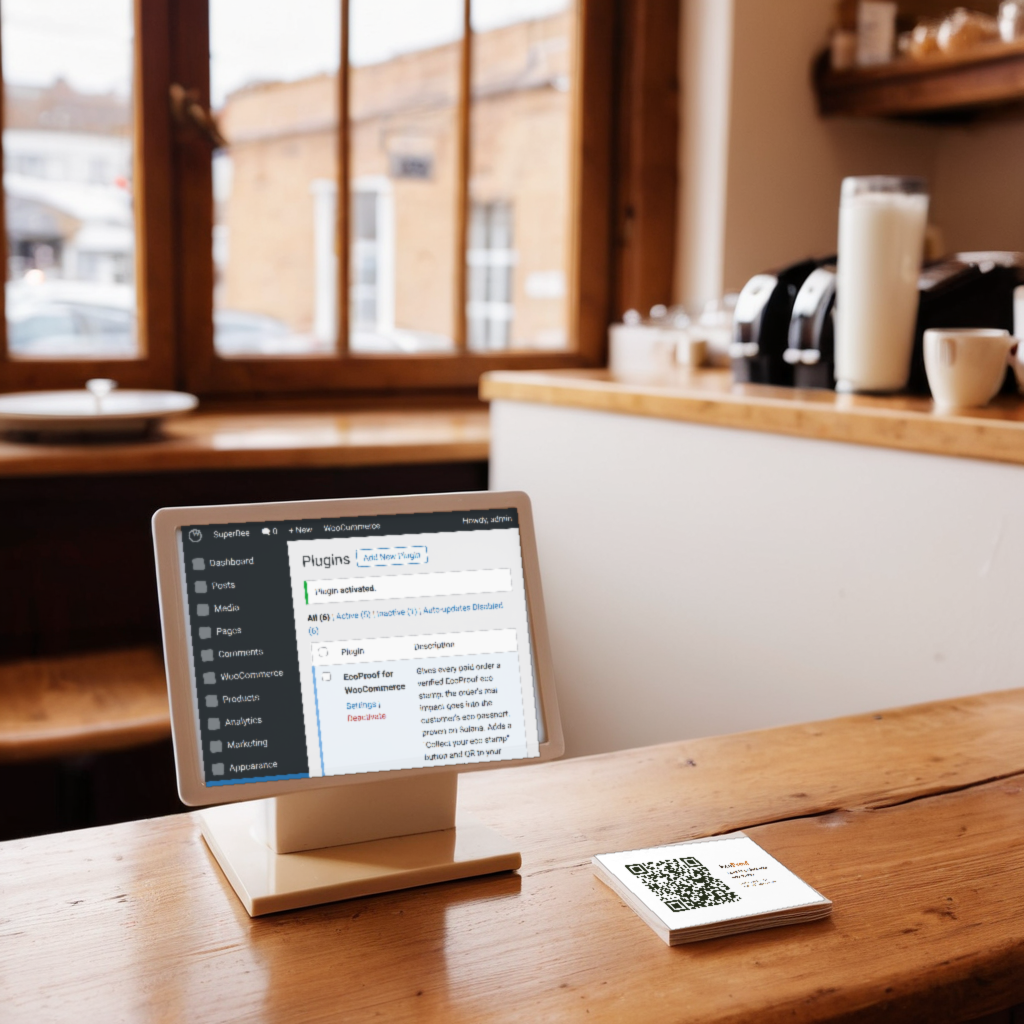
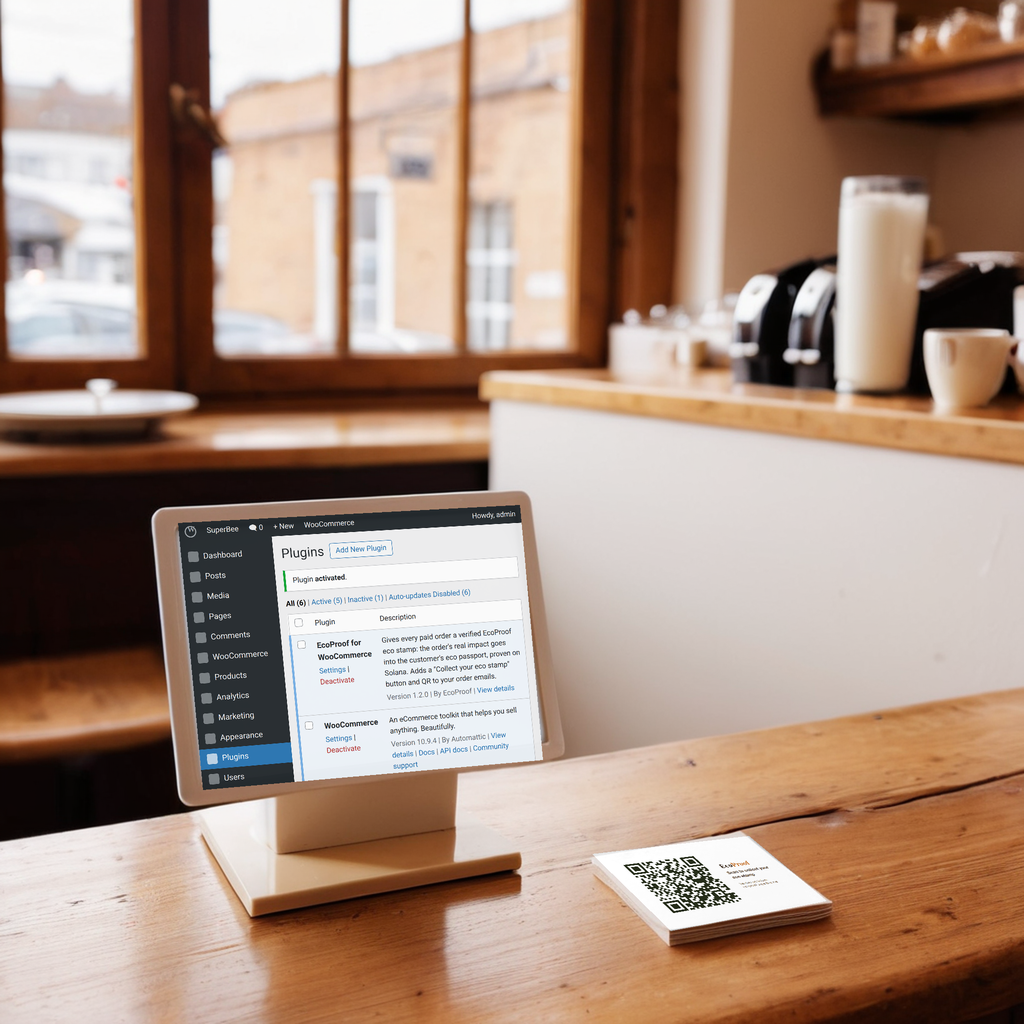
Connect step image: page fills the POS screen, composited at 2x for a crisp overlay

Changed region(s): [[0.1562, 0.4688, 0.5312, 0.7812], [0.5938, 0.8125, 0.75, 0.9062]]

diff --git a/art/steps/connect/wp_plugins_fit.html b/art/steps/connect/wp_plugins_fit.html
@@ -1,0 +1,37 @@
+<!doctype html><html><head><meta charset="utf-8"><title>Plugins</title>
+<style>body{zoom:1.3}
+*{box-sizing:border-box}body{margin:0;font:13px/1.5 -apple-system,BlinkMacSystemFont,"Segoe UI",Roboto,Oxygen-Sans,Ubuntu,Cantarell,"Helvetica Neue",sans-serif;color:#1d2327;background:#f0f0f1}
+#bar{height:32px;background:#1d2327;color:#f0f0f1;display:flex;align-items:center;padding:0 10px;gap:18px;font-size:13px}
+#bar .wp{width:20px;height:20px;border-radius:50%;border:2px solid #9ca2a7;display:inline-block;position:relative}
+#bar .wp:after{content:"W";position:absolute;left:3px;top:-3px;font:bold 13px Georgia,serif;color:#9ca2a7}
+#bar .r{margin-left:auto}
+#side{position:absolute;top:32px;left:0;bottom:0;width:160px;background:#1d2327;color:#f0f0f1;padding-top:10px}
+#side div{padding:7px 12px;font-size:14px;display:flex;align-items:center;gap:8px}
+#side div i{width:18px;height:18px;border-radius:3px;background:#9ca2a7;opacity:.7;display:inline-block}
+#side .cur{background:#2271b1;color:#fff}#side .cur i{background:#fff}
+#main{position:absolute;top:32px;left:160px;right:0;bottom:0;padding:8px 14px}
+h1{font-size:23px;font-weight:400;margin:6px 0 12px;display:flex;align-items:center;gap:10px}
+.btn{font-size:13px;border:1px solid #2271b1;color:#2271b1;background:#f6f7f7;border-radius:3px;padding:3px 10px}
+.notice{background:#fff;border:1px solid #c3c4c7;border-left:4px solid #00a32a;padding:8px 12px;margin:8px 0 12px;box-shadow:0 1px 1px rgba(0,0,0,.04)}
+.sub{margin:8px 0;color:#646970}.sub b{color:#000}.sub a{color:#2271b1;text-decoration:none}
+.tbl{background:#fff;border:1px solid #c3c4c7;box-shadow:0 1px 1px rgba(0,0,0,.04);width:100%;border-collapse:collapse}
+.tbl th{text-align:left;padding:8px 10px;border-bottom:1px solid #c3c4c7;font-weight:400}
+.tbl td{padding:10px;vertical-align:top;border-top:1px solid #c3c4c7}
+.tbl tr.on td{background:#f0f6fc}.tbl tr.on td:first-child{border-left:4px solid #72aee6}
+.tbl td.n{width:26%}.tbl td.n b{font-size:14px;display:block;margin-bottom:4px}
+.act a{color:#2271b1;text-decoration:none}.act .d{color:#b32d2e}.meta{color:#646970;margin-top:4px}.meta a{color:#2271b1;text-decoration:none}
+.cb{width:14px;height:14px;border:1px solid #8c8f94;border-radius:3px;display:inline-block;background:#fff}
+</style></head><body>
+<div id="bar"><span class="wp"></span><span>SuperBee</span><span>🗨 0</span><span>+ New</span><span>WooCommerce</span><span class="r">Howdy, admin</span></div>
+<div id="side"><div><i></i>Dashboard</div><div><i></i>Posts</div><div><i></i>Media</div><div><i></i>Pages</div><div><i></i>Comments</div><div><i></i>WooCommerce</div><div><i></i>Products</div><div><i></i>Analytics</div><div><i></i>Marketing</div><div><i></i>Appearance</div><div class="cur"><i></i>Plugins</div><div><i></i>Users</div><div><i></i>Tools</div><div><i></i>Settings</div></div>
+<div id="main">
+<h1>Plugins <span class="btn">Add New Plugin</span></h1>
+<div class="notice">Plugin <b>activated</b>.</div>
+<div class="sub"><b>All (6)</b> | <a>Active (5)</a> | <a>Inactive (1)</a> | <a>Auto-updates Disabled (6)</a></div>
+<table class="tbl"><tr><th style="width:30px"><span class="cb"></span></th><th>Plugin</th><th>Description</th></tr>
+<tr class="on"><td><span class="cb"></span></td><td class="n"><b>EcoProof for WooCommerce</b><div class="act"><a>Settings</a> | <a class="d">Deactivate</a></div></td><td>Gives every paid order a verified EcoProof eco stamp: the order's real impact goes into the customer's eco passport, proven on Solana. Adds a "Collect your eco stamp" button and QR to your order emails.<div class="meta">Version 1.2.0 | By EcoProof | <a>View details</a></div></td></tr>
+<tr class="on"><td><span class="cb"></span></td><td class="n"><b>WooCommerce</b><div class="act"><a>Settings</a> | <a class="d">Deactivate</a></div></td><td>An eCommerce toolkit that helps you sell anything. Beautifully.<div class="meta">Version 10.9.4 | By Automattic | <a>View details</a> | <a>Docs</a> | <a>API docs</a> | <a>Community support</a></div></td></tr>
+<tr class="on"><td><span class="cb"></span></td><td class="n"><b>WooCommerce Stripe Gateway</b><div class="act"><a>Settings</a> | <a class="d">Deactivate</a></div></td><td>Take credit card payments on your store using Stripe.<div class="meta">Version 10.8.4 | By Stripe | <a>View details</a></div></td></tr>
+<tr class="on"><td><span class="cb"></span></td><td class="n"><b>WooCommerce PDF Invoices</b><div class="act"><a>Settings</a> | <a class="d">Deactivate</a></div></td><td>Automatically generate and attach PDF invoices to WooCommerce order emails.<div class="meta">Version 3.2.1 | <a>View details</a></div></td></tr>
+<tr><td><span class="cb"></span></td><td class="n"><b>Customer Reviews for WooCommerce</b><div class="act"><a>Activate</a> | <a class="d">Delete</a></div></td><td>Collect and show customer reviews for your products.<div class="meta">Version 5.114.0 | <a>View details</a></div></td></tr>
+</table></div></body></html>

diff --git a/art/steps/connect/compose.py b/art/steps/connect/compose.py
@@ -1,46 +1,37 @@
 #!/usr/bin/env python3
-"""Composite the real assets onto the rendered counter scene: the WordPress plugins page onto the POS screen, the QR card onto the blank card.
-Corners were read off labelled zoom crops (quad() is kept for a rough automatic guess). Run with the WebUI venv python (numpy)."""
-import numpy as np, sys, pathlib, json
-from PIL import Image, ImageFilter
+"""Composite the real assets onto the rendered counter scene: the WordPress plugins page replica onto the POS screen, the QR card onto the blank
+card. Corners were read off labelled zoom crops. Everything is warped at 2x and downsampled at the end so the overlays stay crisp.
+Run with the WebUI venv python (numpy)."""
+import numpy as np, pathlib, json
+from PIL import Image
 D = pathlib.Path(__file__).parent
+SS = 2
 scene = Image.open(D/"r1_106.png").convert("RGB"); W,H = scene.size
-def quad(box, thresh):
-    """Corners (TL,TR,BR,BL) of the bright region inside box, from the extreme points of its mask."""
-    x0,y0,x1,y1 = box; a = np.asarray(scene.crop(box).convert("L"), np.float32)
-    m = a > thresh; ys,xs = np.nonzero(m); xs = xs + x0; ys = ys + y0
-    s, d = xs+ys, xs-ys
-    return [(int(xs[s.argmin()]),int(ys[s.argmin()])), (int(xs[d.argmax()]),int(ys[d.argmax()])), (int(xs[s.argmax()]),int(ys[s.argmax()])), (int(xs[d.argmin()]),int(ys[d.argmin()]))]
+big = scene.resize((W*SS,H*SS), Image.LANCZOS)
+SCREEN = [(178,523),(520,505),(543,760),(203,790)]   # inner glass, read off _zoom_screen.png
+CARD = [(591,853),(750,835),(828,902),(670,932)]     # top face of the card stack, read off _zoom_card.png
 def coeffs(src, dst):
     A = []
     for (x,y),(u,v) in zip(dst, src): A += [[x,y,1,0,0,0,-u*x,-u*y],[0,0,0,x,y,1,-v*x,-v*y]]
     return np.linalg.solve(np.array(A, np.float64), np.array(src, np.float64).reshape(8)).tolist()
 def place(overlay, corners, inset=0):
-    """Warp overlay into the quad (corners TL,TR,BR,BL, shrunk by inset px) and return an RGBA layer the size of the scene."""
+    """Warp overlay into the quad (TL,TR,BR,BL in scene px, shrunk by inset px) on the 2x canvas; returns an RGBA layer."""
     cx = sum(p[0] for p in corners)/4; cy = sum(p[1] for p in corners)/4
-    c = [(x+(cx-x)*inset/abs(cx-x) if x!=cx else x, y+(cy-y)*inset/abs(cy-y) if y!=cy else y) for x,y in corners]
-    w,h = overlay.size; src = [(0,0),(w,0),(w,h),(0,h)]
-    ov = overlay.convert("RGBA"); ov.putalpha(255)
-    return ov.transform((W,H), Image.PERSPECTIVE, coeffs(src, c), Image.BICUBIC)
-out = scene.copy()
-# screen: 4:3 crop of the plugins page (sidebar, notice and the EcoProof row), shown slightly soft like the photo, with the screen's own glow kept
-sq = [(178,523),(520,505),(543,760),(203,790)]   # inner glass, read off _zoom_screen.png
-wp = Image.open(D/"wp_plugins_small.png").convert("RGB")   # 800x600 tablet-size render at 2x, 4:3 like the screen
-lay = place(wp, sq, inset=3).filter(ImageFilter.GaussianBlur(0.7))
-glow = np.asarray(scene.convert("L"), np.float32)/255
-l = np.asarray(lay, np.float32); a = l[...,3:4]/255
-mix = l[...,:3]*0.9 + 255*0.1*glow[...,None]            # lift blacks a little toward the panel's light
-out = Image.fromarray((np.asarray(out,np.float32)*(1-a) + mix*a).clip(0,255).astype(np.uint8))
-# card: keep the photo's shading by multiplying the artwork with the card's normalised brightness
-cq = [(591,853),(750,835),(828,902),(670,932)]   # top face of the card stack, read off _zoom_card.png
-card = Image.open(D/"card.png").convert("RGB")
-lay = place(card, cq, inset=2).filter(ImageFilter.GaussianBlur(0.5))
-l = np.asarray(lay, np.float32); a = l[...,3:4]/255
-shade = np.asarray(scene.convert("L"), np.float32); shade = (shade/np.percentile(shade[np.asarray(lay)[...,3]>0], 95)).clip(0,1)[...,None]
-mix = l[...,:3]*(0.35+0.65*shade)
-out = Image.fromarray((np.asarray(out,np.float32)*(1-a) + mix*a).clip(0,255).astype(np.uint8))
-out.save(D/"connect_composite.png")
+    c = [((x+(cx-x)*inset/abs(cx-x) if x!=cx else x)*SS, (y+(cy-y)*inset/abs(cy-y) if y!=cy else y)*SS) for x,y in corners]
+    w,h = overlay.size; ov = overlay.convert("RGBA"); ov.putalpha(255)
+    return ov.transform((W*SS,H*SS), Image.PERSPECTIVE, coeffs([(0,0),(w,0),(w,h),(0,h)], c), Image.BICUBIC)
+out = np.asarray(big, np.float32)
+lum = np.asarray(big.convert("L"), np.float32)/255
+# screen: the page fills the glass edge to edge; a touch of the panel's own light lifts the blacks like a real backlit display
+l = np.asarray(place(Image.open(D/"wp_plugins_fit.png").convert("RGB"), SCREEN), np.float32); a = l[...,3:4]/255
+out = out*(1-a) + (l[...,:3]*0.92 + 255*0.08*lum[...,None])*a
+# card: the artwork keeps the photo's shading (multiplied by the card's normalised brightness)
+lay = place(Image.open(D/"card.png").convert("RGB"), CARD, inset=1); l = np.asarray(lay, np.float32); a = l[...,3:4]/255
+shade = (lum*255/np.percentile((lum*255)[l[...,3]>0], 95)).clip(0,1)[...,None]
+out = out*(1-a) + l[...,:3]*(0.35+0.65*shade)*a
+big = Image.fromarray(out.clip(0,255).astype(np.uint8))
+big.resize((W,H), Image.LANCZOS).save(D/"connect_composite.png")
 # the step image: a tighter square around the screen and the card, 800x800 like the other steps
-crop = out.crop((120,264,880,1024)).resize((800,800), Image.LANCZOS); crop.save(D/"connect.png")
-crop.save(D.parents[2]/"public"/"landing"/"steps"/"connect.webp", quality=86, method=6)
-json.dump({"scene":"r1_106.png","screen":sq,"card":cq}, open(D/"composite.json","w"), indent=1)
+crop = big.crop((120*SS,264*SS,880*SS,1024*SS)).resize((800,800), Image.LANCZOS); crop.save(D/"connect.png")
+crop.save(D.parents[2]/"public"/"landing"/"steps"/"connect.webp", quality=88, method=6)
+json.dump({"scene":"r1_106.png","screen":SCREEN,"card":CARD,"screen_page":"wp_plugins_fit.png","card_art":"card.png"}, open(D/"composite.json","w"), indent=1)
